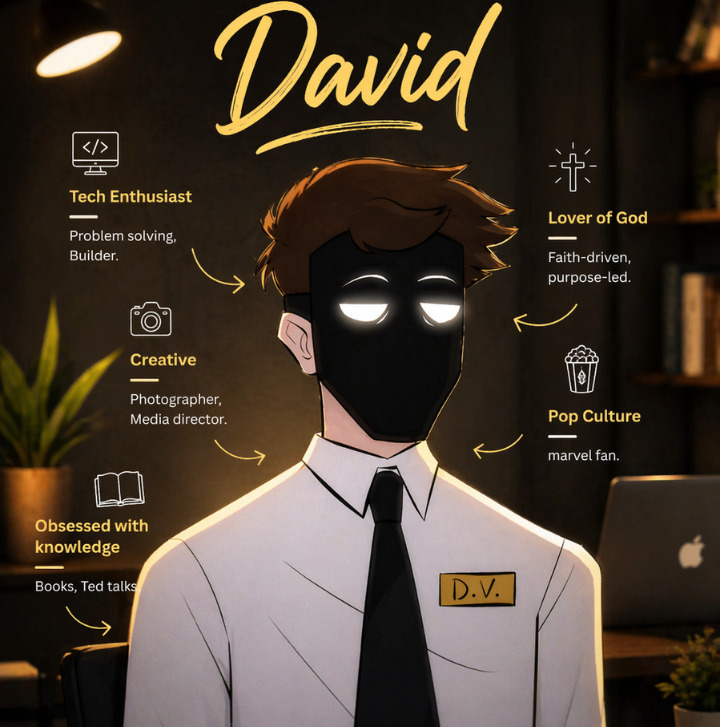
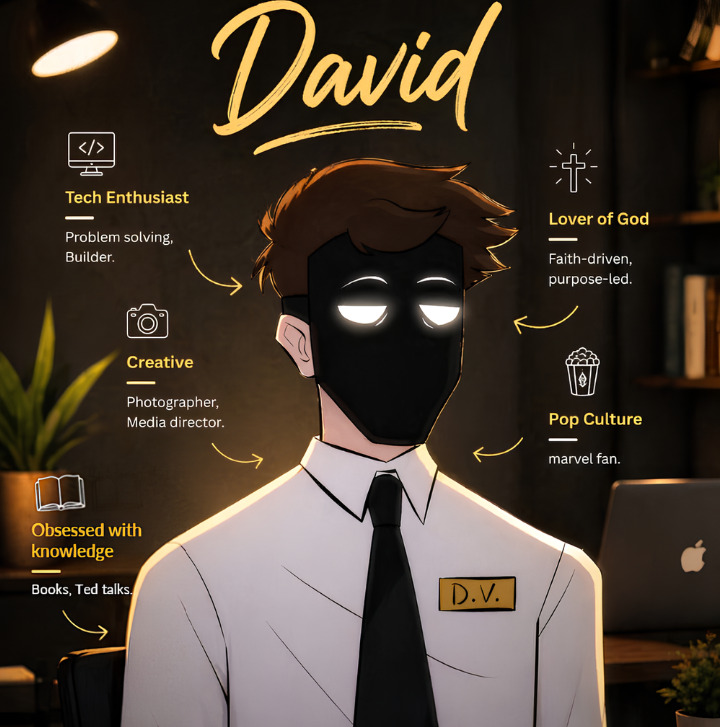
Work and pfp update

diff --git a/src/data/data.js b/src/data/data.js
@@ -1,9 +1,9 @@
 export const projects = [
   {
-    name: "Seat Booking Software",
-    desc: "An application used for booking event seat with Paystack integration ",
-    lang: "Typescript",
-    link: "https://github.com/0xDaruby/seat-booking-system.git",
+    name: "CallScribe",
+    desc: "A telegram bot that records and transcribes telegram calls remotely, generating summaries using AI API",
+    lang: "Python",
+    link: "https://github.com/0xDaruby/CallScribe.git",
   },
   {
     name: "Email_Automation",
@@ -18,22 +18,22 @@ export const projects = [
     link: "https://github.com/0xDaruby/Priv-Con.git", 
   },
   {
-   name: "Portfolio Website series",
+    name: "Hotel Ops Software",
+    desc: "a software solution that aims to bridge the gap in communication between the hotel operations team and the management team",
+    lang: "TypeScript · PostgreSQL · JavaScript",
+    link: "https://github.com/0xDaruby/Hotel-Operations-Software.git",
+  },
+  {
+    name: "Seat Booking Software",
+    desc: "An application used for booking event seat with Paystack integration ",
+    lang: "Typescript",
+    link: "https://github.com/0xDaruby/seat-booking-system.git",
+  },
+  {
+    name: "Portfolio Website series",
     desc: "a set of portfolio websites built for personal brands and businesses ",
     lang: "Html · TailwindCSS · JavaScript",
     link: "https://github.com/0xDaruby/",
-  },
-  {
-    name: "",
-    desc: "still working on it check back later",
-    lang: "",
-    link: "",
-  },
-  {
-    name: "",
-    desc: "",
-    lang: "",
-    link: "",
   },
  
 ];
